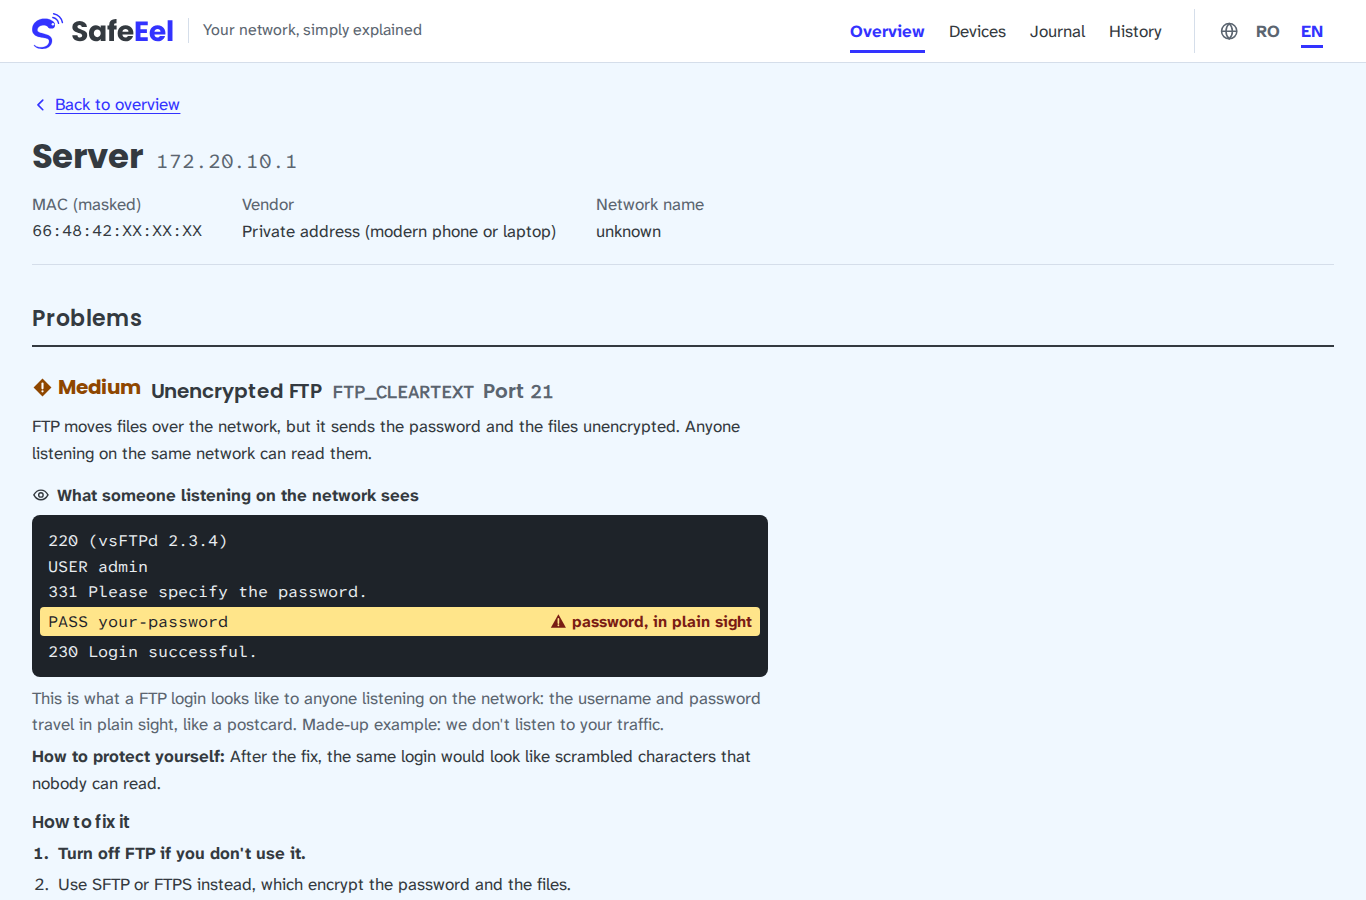
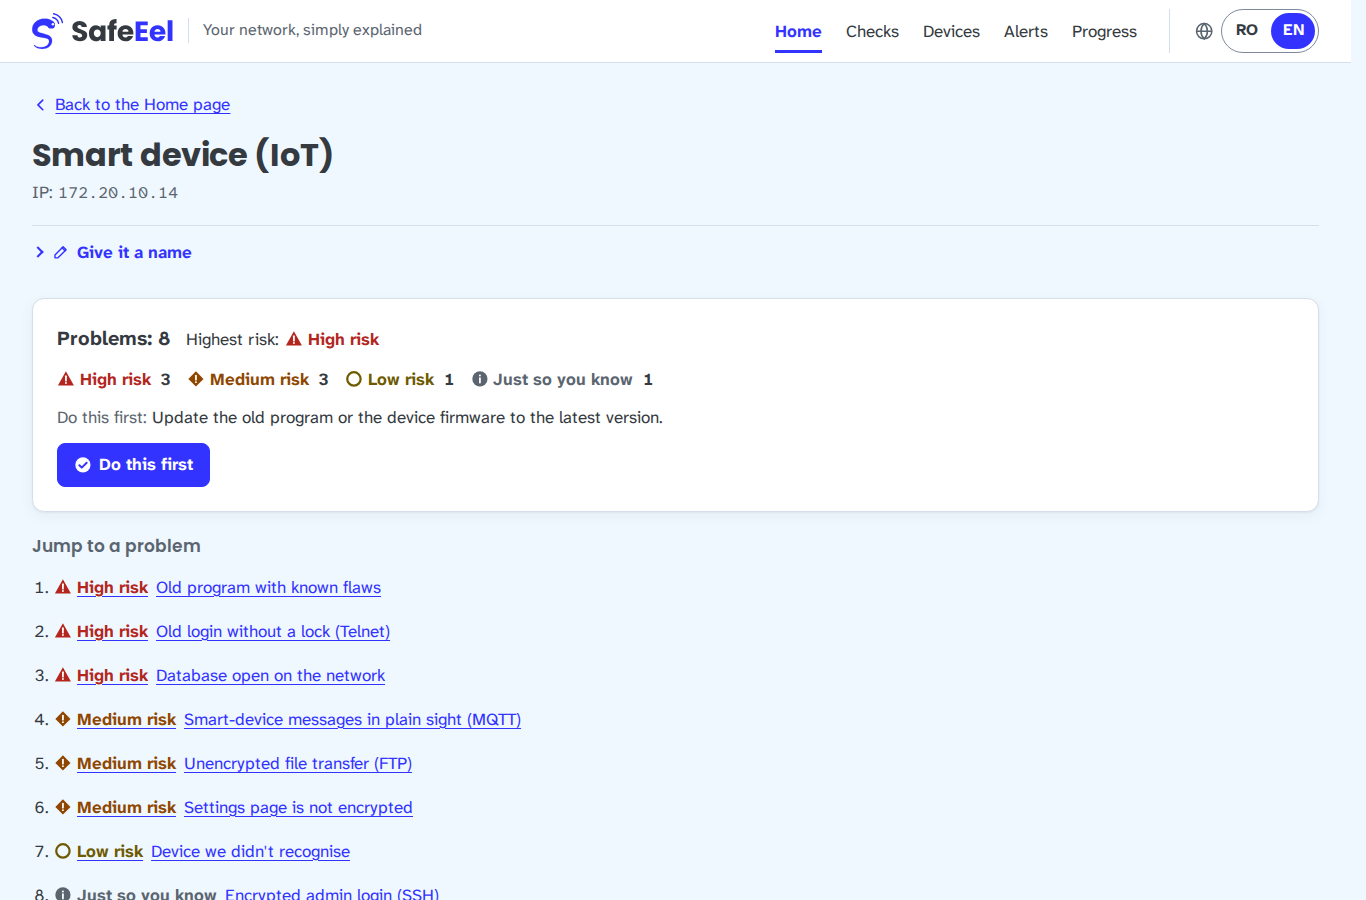
docs: pitch actualizat dupa UI-ul nou (Home/Checks/Devices/Alerts/Progress, verificarea unei reparatii cu Docker in demo, dovada inainte/dupa), cifre reverificate, intrebare noua pentru juriu, capturi noi pentru Planul B

diff --git a/docs/pitch.md b/docs/pitch.md
@@ -1,8 +1,8 @@
 # Pitch · SafeEel (Ibiza2028) · 7 minutes
 
 > The pitch is in English; all four of us speak. Each part lists **what to say**, **how long**, and **what is on screen**.
-> About 140 spoken words per minute. Every figure below comes from the repo (see [technical.md](technical.md), "Cifre") and was re-checked on 7 Nov 2026.
-> Plan B screenshots are in [`docs/pitch/`](pitch/).
+> About 140 spoken words per minute. Every figure below comes from the repo (see [technical.md](technical.md), "Cifre") and was re-checked on 8 Nov 2026.
+> The app menu is **Home · Checks · Devices · Alerts · Progress**. Plan B screenshots are in [`docs/pitch/`](pitch/).
 
 | Time | Part | Speaker |
 |---|---|---|
@@ -16,7 +16,7 @@
 
 ## 0:00–1:00 · The problem (RBRT, 60 s)
 
-**On screen:** the SafeEel overview page, already open (score card + "Most dangerous device"). No slides.
+**On screen:** SafeEel **Home**, already open in English: "Your network needs attention." No slides.
 
 **Say:**
 > Quick question: how many devices are connected to your home Wi-Fi right now? Most people guess five. The real number is usually closer to twenty: phones, the TV, a camera, a printer, a smart plug someone installed and forgot.
@@ -25,24 +25,26 @@
 >
 > Tools exist to find this, like Wazuh. They are built for experts and companies: you need a server, agents on every machine, and an analyst to read the alerts. Families have nothing like that.
 >
-> So we built SafeEel. It scans your own network, tells you in plain words what is wrong, and gives you one fix at a time. It runs on your laptop, with no account and no cloud. Radu will show you.
+> So we built SafeEel. It checks your own network, tells you in plain words what is wrong, and gives you one fix at a time. It runs on your laptop, with no account and no cloud. Radu will show you.
 
 ---
 
 ## 1:00–3:30 · Live demo (Radu, 2 min 30 s)
 
-**On screen:** `python -m netscan ui` on `127.0.0.1:5000`, with `NETSCAN_SCANS_DIR=fixtures/lab` (our lab: a hotspot, one scanner, one target laptop).
+**On screen:** `python -m netscan ui` on `127.0.0.1:5000`, with `NETSCAN_SCANS_DIR=fixtures/lab` (our lab: one hotspot, one scanner laptop, one target laptop with Docker). The demo laptop is on the hotspot, with `NETSCAN_EXPECTED_SSID` in `.env`. Before the session the lab is **running**, so the problems really exist. Full checklist: [demo.md](demo.md).
 
 | Time | Click | Say |
 |---|---|---|
-| 1:00 | Overview of `scan_01_before.xml` | "This is our lab network, scanned with the tool. Score: zero out of a hundred. The page answers one question first: what is the most dangerous device?" |
-| 1:20 | Point at the "Most dangerous device" card | "It is this smart device. In red, with a triangle, not just colour: high risk. One sentence says what is wrong, in words a twelve-year-old understands." |
-| 1:40 | Point at "Do this first" + "What could an attacker do" (if shown) | "And here is the one thing to do first. Not a list of forty. One step." |
-| 2:00 | Click **"I did this, check it"** | "When I say I fixed it, the app does not just believe me. It checks the real device, only on our own network, and the score only moves for confirmed steps." |
-| 2:20 | Click **Next step** twice | "I can walk through the steps, in order of risk." |
-| 2:40 | **History** tab: trend chart | "After we turned off the database and the old Telnet service on the target, we scanned again." |
-| 2:55 | Open `scan_03_after.xml` → "Compared with the previous scan" | "Before and after: score zero to thirty. Two problems fixed, two doors closed, and the eight that remain are still listed. Nothing hidden." |
-| 3:15 | Click **Ask the AI assistant** → "What should I do first?" | "And if you are not sure, you just ask. The answer is built from your scan. Ayan will explain why you can trust it." |
+| 1:00 | **Home**, scan `scan_01_before.xml` | "This is our lab network, scanned with the tool. The first thing you read is the verdict: your network needs attention. Score: zero out of a hundred." |
+| 1:15 | Point at the sentence under the verdict | "And right under it, the answer to the only question that matters: start with this device, do this." |
+| 1:30 | Point at **Most dangerous device** | "It is this smart device. High risk, shown with a triangle and a word, not just a colour. One sentence says what is wrong, in words a twelve-year-old understands, and one line says what an attacker could do." |
+| 1:50 | Point at **Do this first** | "One step, not a list of forty. And it tells you where to do it." |
+| 2:00 | On the target laptop: `docker compose -f lab/docker-compose.yml stop redis`. Back in SafeEel, on the database step: **I did this, check it** | "We just turned off the exposed database. Now, when I say I fixed it, SafeEel does not take my word for it: it knocks once on that port, only on our own hotspot. Nobody answers, so the step is confirmed, and the engine recalculates the score." |
+| 2:35 | **Progress** tab: score over time | "Every scan is saved on this laptop. Here is the score over time." |
+| 2:50 | **See the proof** on `scan_03_after.xml` | "Before and after: zero to thirty. Two problems fixed, two doors closed, and what is still open is still listed. Nothing hidden." |
+| 3:10 | **Ask the AI assistant** → "What should I do first?" | "And if you are not sure, you just ask. The answer is built from your scan. Ayan will explain why you can trust it." |
+
+If the target laptop is not reachable: skip the 2:00 row and say "on our hotspot this step is confirmed with a single connection; here the laptop is not on the network, so SafeEel refuses to touch it". That refusal is also the guardrail working.
 
 ---
 
@@ -55,7 +57,7 @@
 >
 > The findings, severities and score come only from deterministic code: the fifteen rules of the official catalog. No AI decides anything. Run it twice, you get the same file byte for byte.
 >
-> The live scan has a guardrail. It only scans the hotspot we are connected to. Public IPs, bigger ranges, the venue network: refused before nmap even starts.
+> The live scan has a guardrail. It only scans the hotspot we are connected to. Public IPs, bigger ranges, the venue network, a VPN: refused before nmap even starts.
 >
 > Everything is local-first. No account, no cloud, nothing leaves the network. The optional AI is a small model on this laptop, and it only rewords text that the code already wrote.
 >
@@ -78,7 +80,7 @@ Expected: `Validator: text REJECTED, the predefined answer would be shown. Reaso
 **Say:**
 > On the official Validation Set we match the answer key exactly: **24 of 24** finding rows and **8 of 8** scores, including the broken file reported as an error instead of crashing.
 >
-> We have **1,007 automated tests**. Two runs of the analysis give byte-identical files.
+> On top of that we wrote **24 trap files** of our own, and we have **1,591 automated tests**. Two runs of the analysis give identical files.
 >
 > In our own lab, the score went from **0 to 30** after we fixed two problems.
 >
@@ -88,19 +90,20 @@ Expected: `Validator: text REJECTED, the predefined answer would be shown. Reaso
 
 | Figure | Where it comes from |
 |---|---|
-| 24/24 rows, 8/8 scores | `tests/test_validation_set.py`, `fixtures/validation/expected_*.csv` |
-| 1,007 tests | `pytest` on branch `explain-plain` (1,007 passed, 1 skipped); **re-check on the `final` tag** |
+| 24/24 rows, 8/8 scores | `python -m netscan analyze fixtures/validation`, compared with `fixtures/validation/expected_*.csv`; also `results/` (the hour-16 check) |
+| 24 trap files | `fixtures/traps/` (T01–T24) |
+| 1,591 tests | `pytest -q` on `main`, 8 Nov 2026 (1,591 passed, 1 skipped); **re-check on the `final` tag** |
 | 0 → 30 | `fixtures/lab/scan_01_before.xml` → `scan_03_after.xml`, [lab.md](lab.md) |
-| 17.7 MB in ~5 s | measured 4.5–5.2 s (22,780 devices, 28,475 findings) under WSL; see technical.md |
-| LIX 40.2 RO / 34.7 EN | `python scripts/plain_language_report.py` |
+| 17.7 MB in ~5 s | measured 4.5–5.2 s (22,780 devices, 28,475 findings) under WSL |
+| LIX 40 RO / 35 EN | `python scripts/plain_language_report.py` (40.4 / 35.3) |
 
-> Note: an earlier draft said "17.7 MB in 2.5 s". That figure is not in the repo and we could not reproduce it, so the pitch uses the measured ~5 s. If someone re-measures on the demo laptop, update both technical.md and this line.
+> If someone tests the Romanian explanations with a non-technical person before the jury, say it here instead of "we did not". It is a bonus signal in the brief.
 
 ---
 
 ## 5:45–7:00 · Limits and next steps (RBRT, 75 s)
 
-**On screen:** the "Limitări" section, or one slide with two columns: *What we don't do (yet)* / *Next*.
+**On screen:** the "Limitări" section of [technical.md](technical.md), or one slide with two columns: *What we don't do (yet)* / *Next*.
 
 **Say:**
 > We want to be honest about the limits.
@@ -111,7 +114,7 @@ Expected: `Validator: text REJECTED, the predefined answer would be shown. Reaso
 >
 > Three: we only had a small hotspot. A full /24 home network with many devices may take longer than five minutes, and we could not verify that legally.
 >
-> Four: there is no login. That was a choice: the app only listens on this laptop, and it rejects pages from other sites.
+> Four: there is no login. That was a choice: the app only listens on this laptop, and it rejects requests from other websites.
 >
 > Next: protection with an authenticator app, profiles for more than one network, the local AI model built in instead of installed separately, and export and import of the history.
 >
@@ -125,7 +128,10 @@ Expected: `Validator: text REJECTED, the predefined answer would be shown. Reaso
 The UI only listens on `127.0.0.1`, without debug. It accepts only requests addressed to the local machine (protection against DNS rebinding). Every action needs a per-session token, and requests from other websites are refused. A password would only protect against someone already sitting at your unlocked laptop. For that case we plan protection with an authenticator app.
 
 **Why don't you encrypt the database?**
-It stays on your own disk and holds no passwords and no real MAC addresses: MACs are masked, and devices are identified by a hash with a local salt. The right layer is disk encryption (BitLocker / FileVault), which also protects everything else on the laptop. And there is a "delete history" button.
+It stays on your own disk and holds no passwords and no real MAC addresses: MACs are masked, and devices are identified by a hash with a local salt. The right layer is disk encryption (BitLocker / FileVault), which also protects everything else on the laptop. There is a "delete my history" button, and the page "What SafeEel knows about you" lists exactly what is stored.
+
+**How do you know a fix really happened?**
+"I did this, check it" makes one TCP connection to the problem's port, only if the device is on the hotspot we are connected to. If the port refuses, the step is confirmed and the engine recalculates the score shown under the standard one. If it still answers, the step stays to do. A newer scan of the same network confirms fixes too. The standard score of a saved scan never changes.
 
 **What do you do with random MAC addresses?**
 The rule stays exact: no vendor means `UNKNOWN_DEVICE`, as the catalog says. The UI explains it as a "private address" and tells the user to check their own phones first. In the history we recognise a device again by its IP when its MAC changed, and we say so on screen.
@@ -137,7 +143,7 @@ Honestly, we don't know. Our /28 with 2 devices took 3 min 25 s, with `--max-rat
 Then we see it wrongly too: the rules decide on the service name nmap reports, as the mentors confirmed. We document it as a limit. Our trap files cover the tricky cases: the same service on an unusual port, UPnP on TCP vs UDP, HTTP vs HTTPS, and Samba version ranges.
 
 **How do you guarantee a re-run gives the same result?**
-The analysis is pure code with no clock, no randomness and no AI. The output is sorted in a fixed order, so two runs produce byte-identical files (tested). For the Test Set we tag the exact commit as `final` and re-run from that tag.
+The analysis is pure code with no clock, no randomness and no AI. The output is sorted in a fixed order, so two runs produce identical files (tested). For the Test Set we tag the exact commit as `final` and re-run from that tag.
 
 ---
 
@@ -147,11 +153,11 @@ Switch to the screenshots in [`docs/pitch/`](pitch/) and tell the same story. Do
 
 | File | Shows | Use at |
 |---|---|---|
-| `1_overview_worst_device.png` | Score, most dangerous device, "Do this first", step check | 1:00–2:20 |
-| `2_device_steps.png` | One device: explanation and all repair steps | 1:40 |
-| `3_history_trend.png` | Score over time 0 → 30 | 2:40 |
-| `4_before_after.png` | Comparison: 2 problems fixed, 2 ports closed | 2:55 |
-| `5_assistant.png` | Assistant answering "What should I do first?" | 3:15 |
+| `1_home_most_dangerous.png` | Home: verdict, "start with", most dangerous device, what an attacker could do, "Do this first" | 1:00–2:00 |
+| `2_device_steps.png` | One device: explanation and all repair steps | 1:50 |
+| `3_progress_trend.png` | Progress: score over time 0 → 30 | 2:35 |
+| `4_before_after.png` | Proof: before and after, 2 problems fixed, 2 ports closed | 2:50 |
+| `5_assistant.png` | Assistant answering "What should I do first?" | 3:10 |
 | `6_devices.png` | "What is connected to me?" inventory | backup |
 | `7_validator_en.txt` | Validator output (REJECTED, with the reasons) | 4:20 |
 
